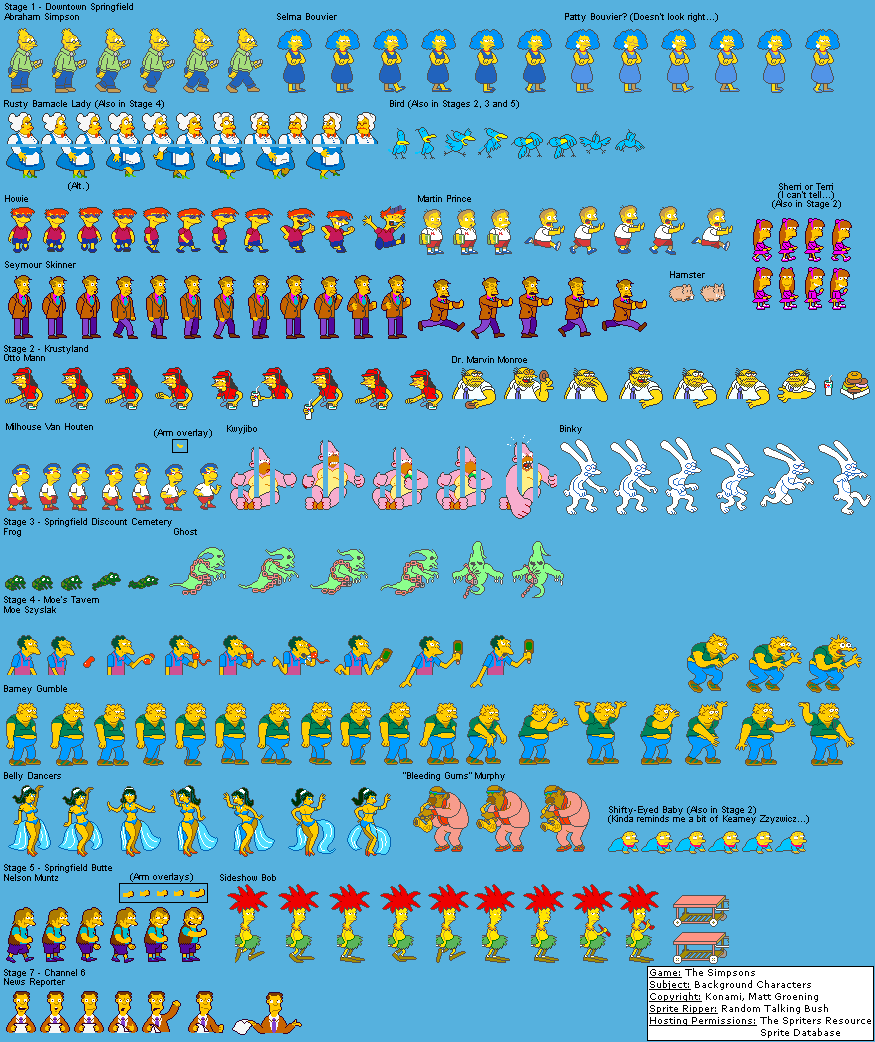
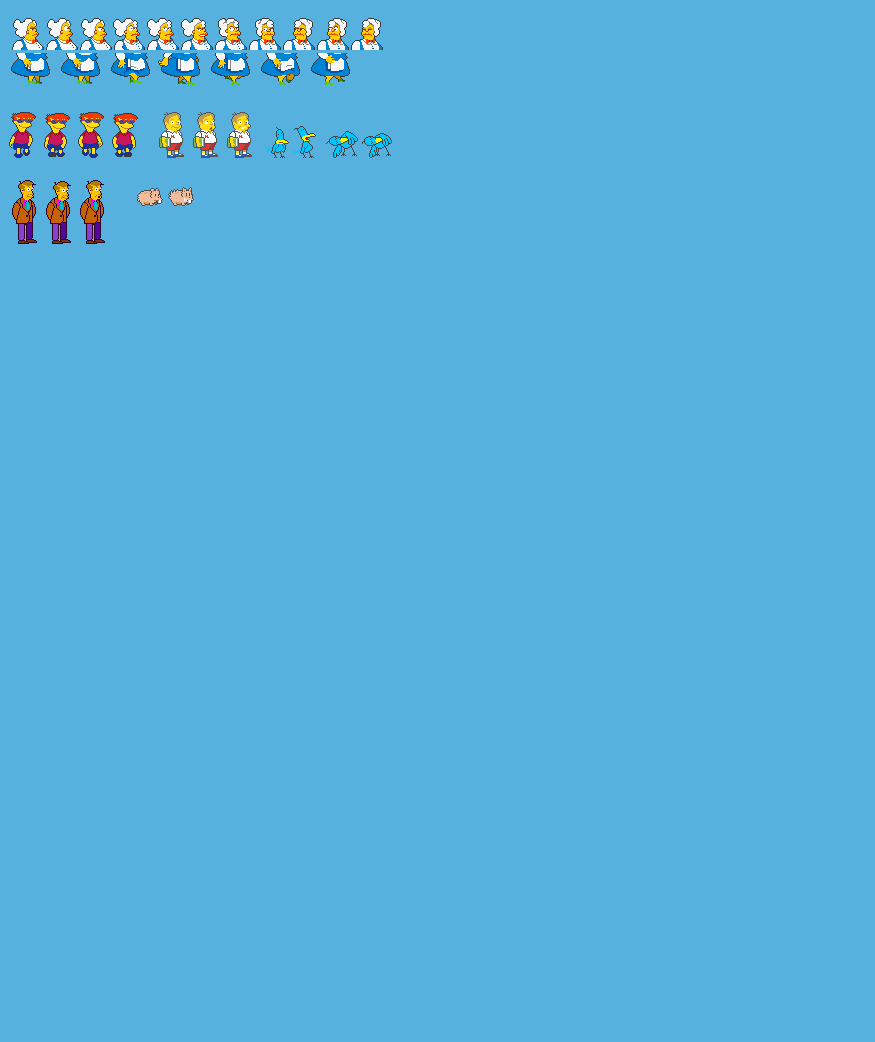
Change npc resource

diff --git a/ModuleJsonManager.cpp b/ModuleJsonManager.cpp
@@ -118,7 +118,6 @@ void ModuleJsonManager::FillSpritesMap()
 	FillSDL_RectFrom(spritesMap[CLOUD6] = new SDL_Rect(), stage1Elements, "cloud6");
 	FillSDL_RectFrom(spritesMap[TREE1] = new SDL_Rect(), stage1Elements, "tree1");
 	FillSDL_RectFrom(spritesMap[TREE2] = new SDL_Rect(), stage1Elements, "tree2");
-	FillSDL_RectFrom(spritesMap[HOWIE_JUMP] = new SDL_Rect(), npcElements, "howieJump");
 	FillSDL_RectFrom(spritesMap[LADY_DOWN_IDLE] = new SDL_Rect(), npcElements, "ladyDownIdle");
 }
 
@@ -137,18 +136,10 @@ void ModuleJsonManager::FillAnimationsMap()
 	FillAnimationFrom(animationsMap[LADY_TOP] = new Animation(), npcElements, "ladyTop");
 	FillAnimationFrom(animationsMap[LADY_DOWN_WALK] = new Animation(), npcElements, "ladyDownWalk");
 	FillAnimationFrom(animationsMap[BIRD_IDLE] = new Animation(), npcElements, "birdIdle");
-	FillAnimationFrom(animationsMap[BIRD_JUMP] = new Animation(), npcElements, "birdJump");
 	FillAnimationFrom(animationsMap[BIRD_CLEAN] = new Animation(), npcElements, "birdClean");
-	FillAnimationFrom(animationsMap[BIRD_FLY] = new Animation(), npcElements, "birdFly");
 	FillAnimationFrom(animationsMap[HOWIE_FRONT_WALK] = new Animation(), npcElements, "howieFrontWalk");
-	FillAnimationFrom(animationsMap[HOWIE_WALK] = new Animation(), npcElements, "howieWalk");
-	FillAnimationFrom(animationsMap[HOWIE_IDLE] = new Animation(), npcElements, "howieIdle");
 	FillAnimationFrom(animationsMap[MARTIN_IDLE] = new Animation(), npcElements, "martinIdle");
-	FillAnimationFrom(animationsMap[MARTIN_RUN] = new Animation(), npcElements, "martinRun");
-	FillAnimationFrom(animationsMap[SKINNER_IDLE1] = new Animation(), npcElements, "skinnerIdle1");
-	FillAnimationFrom(animationsMap[SKINNER_WALK] = new Animation(), npcElements, "skinnerWalk");
-	FillAnimationFrom(animationsMap[SKINNER_IDLE2] = new Animation(), npcElements, "skinnerIdle2");
-	FillAnimationFrom(animationsMap[SKINNER_RUN] = new Animation(), npcElements, "skinnerRun");
+	FillAnimationFrom(animationsMap[SKINNER_IDLE1] = new Animation(), npcElements, "skinnerIdle");
 	FillAnimationFrom(animationsMap[HAMSTER] = new Animation(), npcElements, "hamster");
 }
 

diff --git a/ModuleStage1.cpp b/ModuleStage1.cpp
@@ -111,7 +111,7 @@ void ModuleStage1::BlitTree() const
 
 void ModuleStage1::BlitHamster() const
 {
-	App->GetModuleRender()->Blit(graphicsNpc, 646, 102, 157, &App->GetModuleJsonManager()->GetAnimationOf(HAMSTER)->GetCurrentFrame());
+	App->GetModuleRender()->Blit(graphicsNpc, 646, 100, 157, &App->GetModuleJsonManager()->GetAnimationOf(HAMSTER)->GetCurrentFrame());
 }
 
 void ModuleStage1::MoveCamera() const
